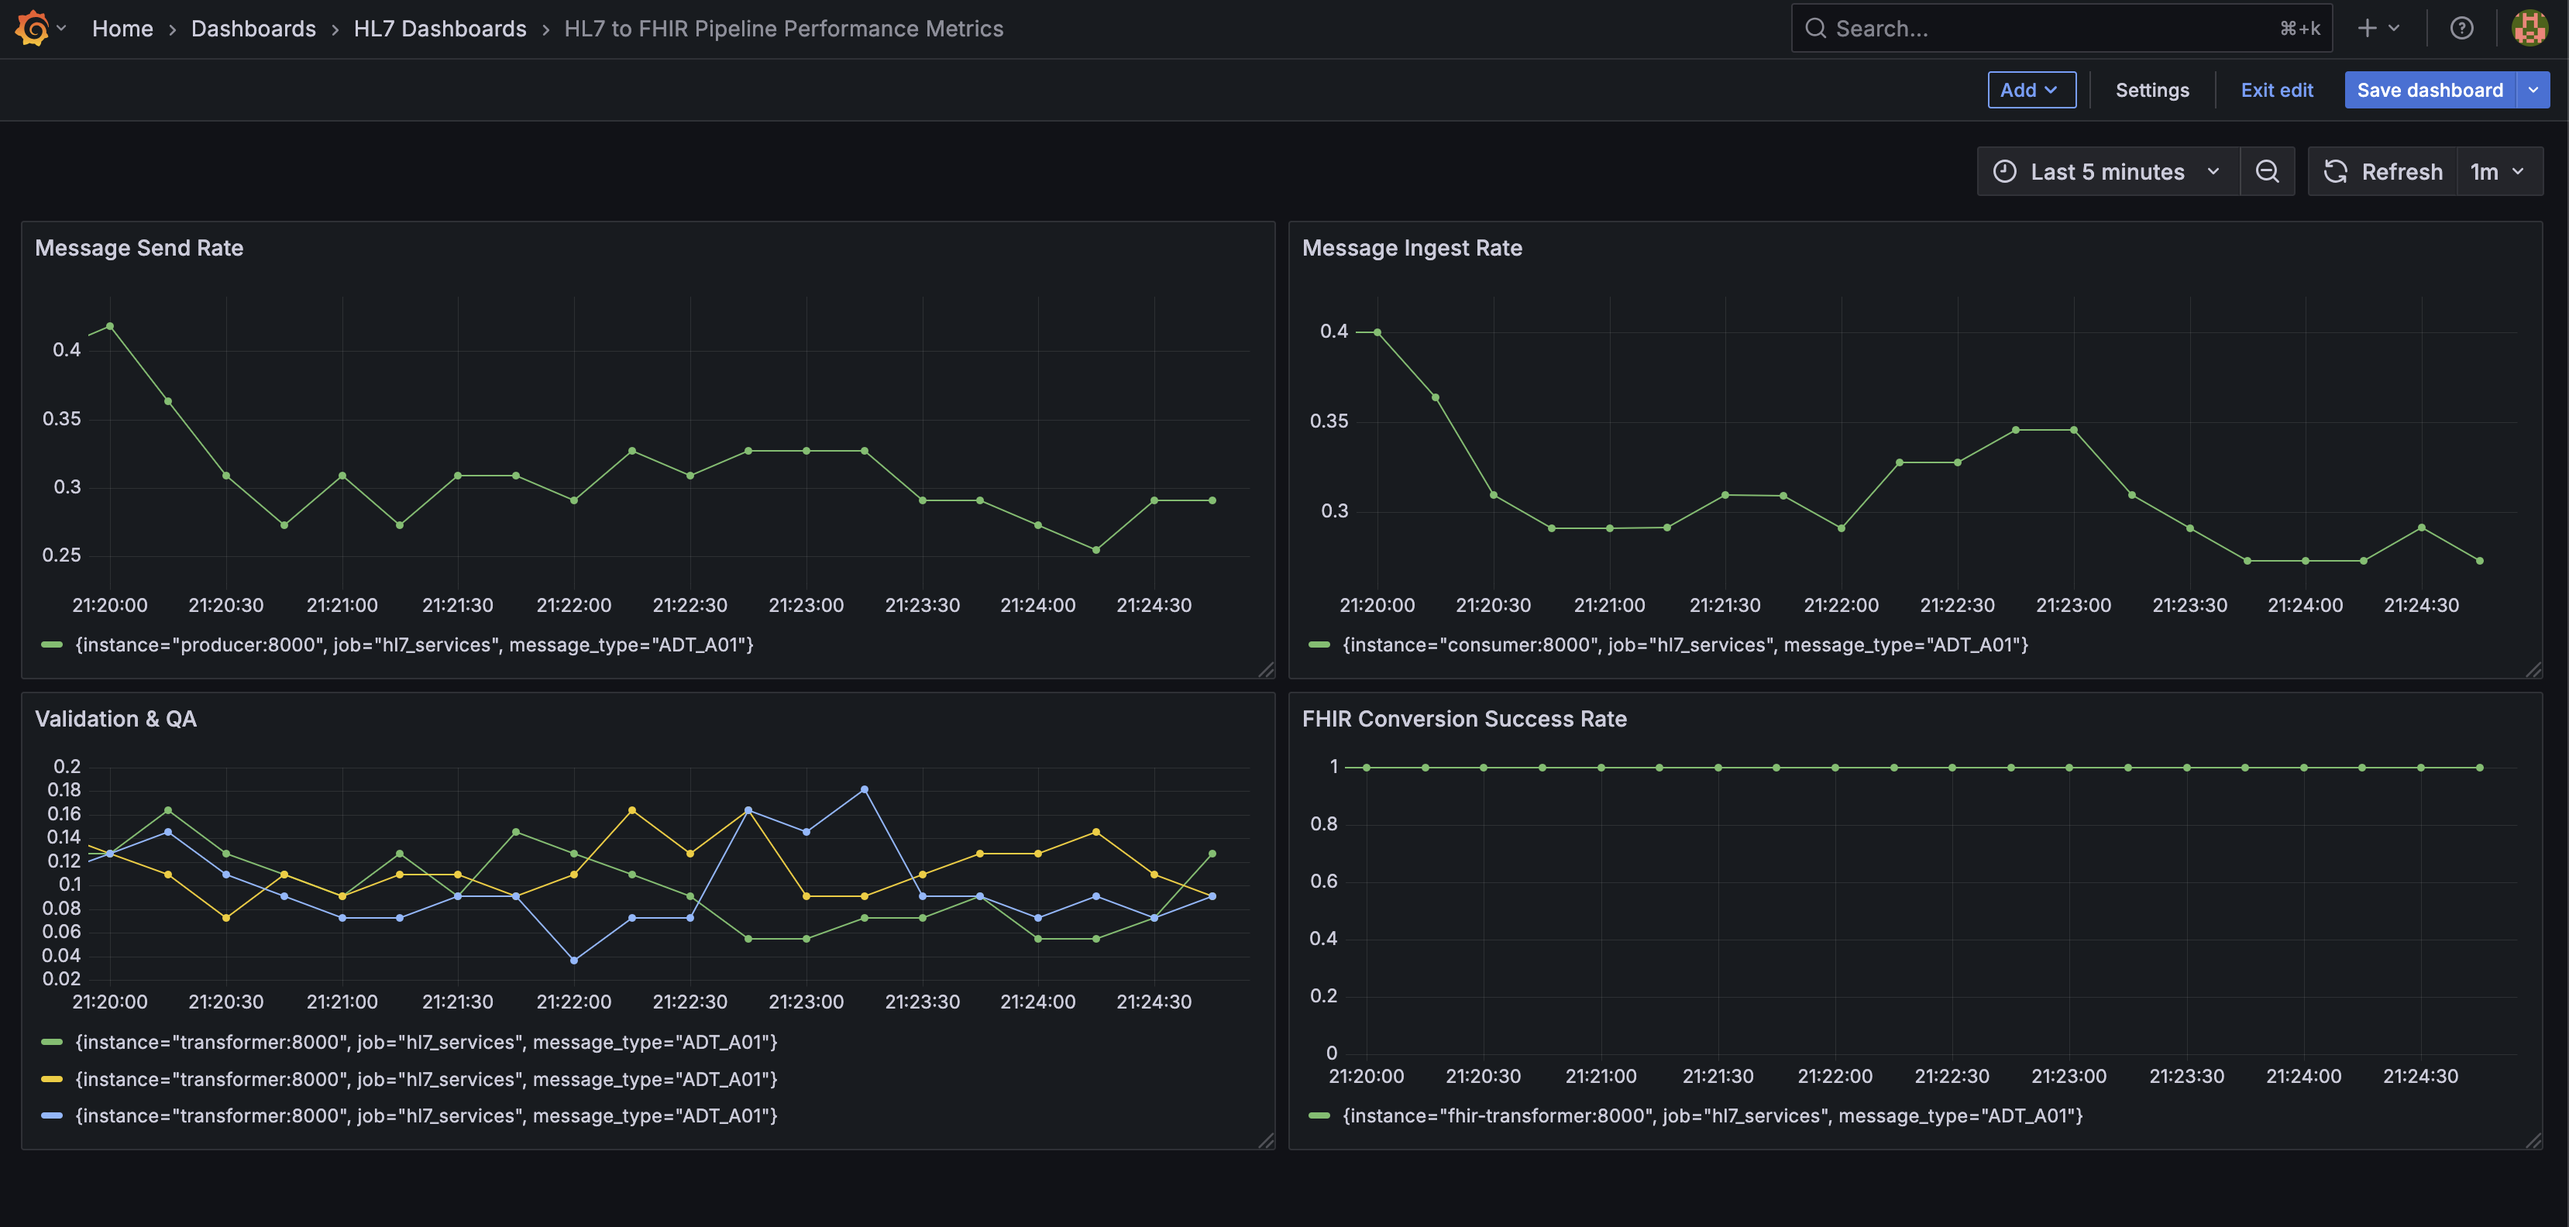
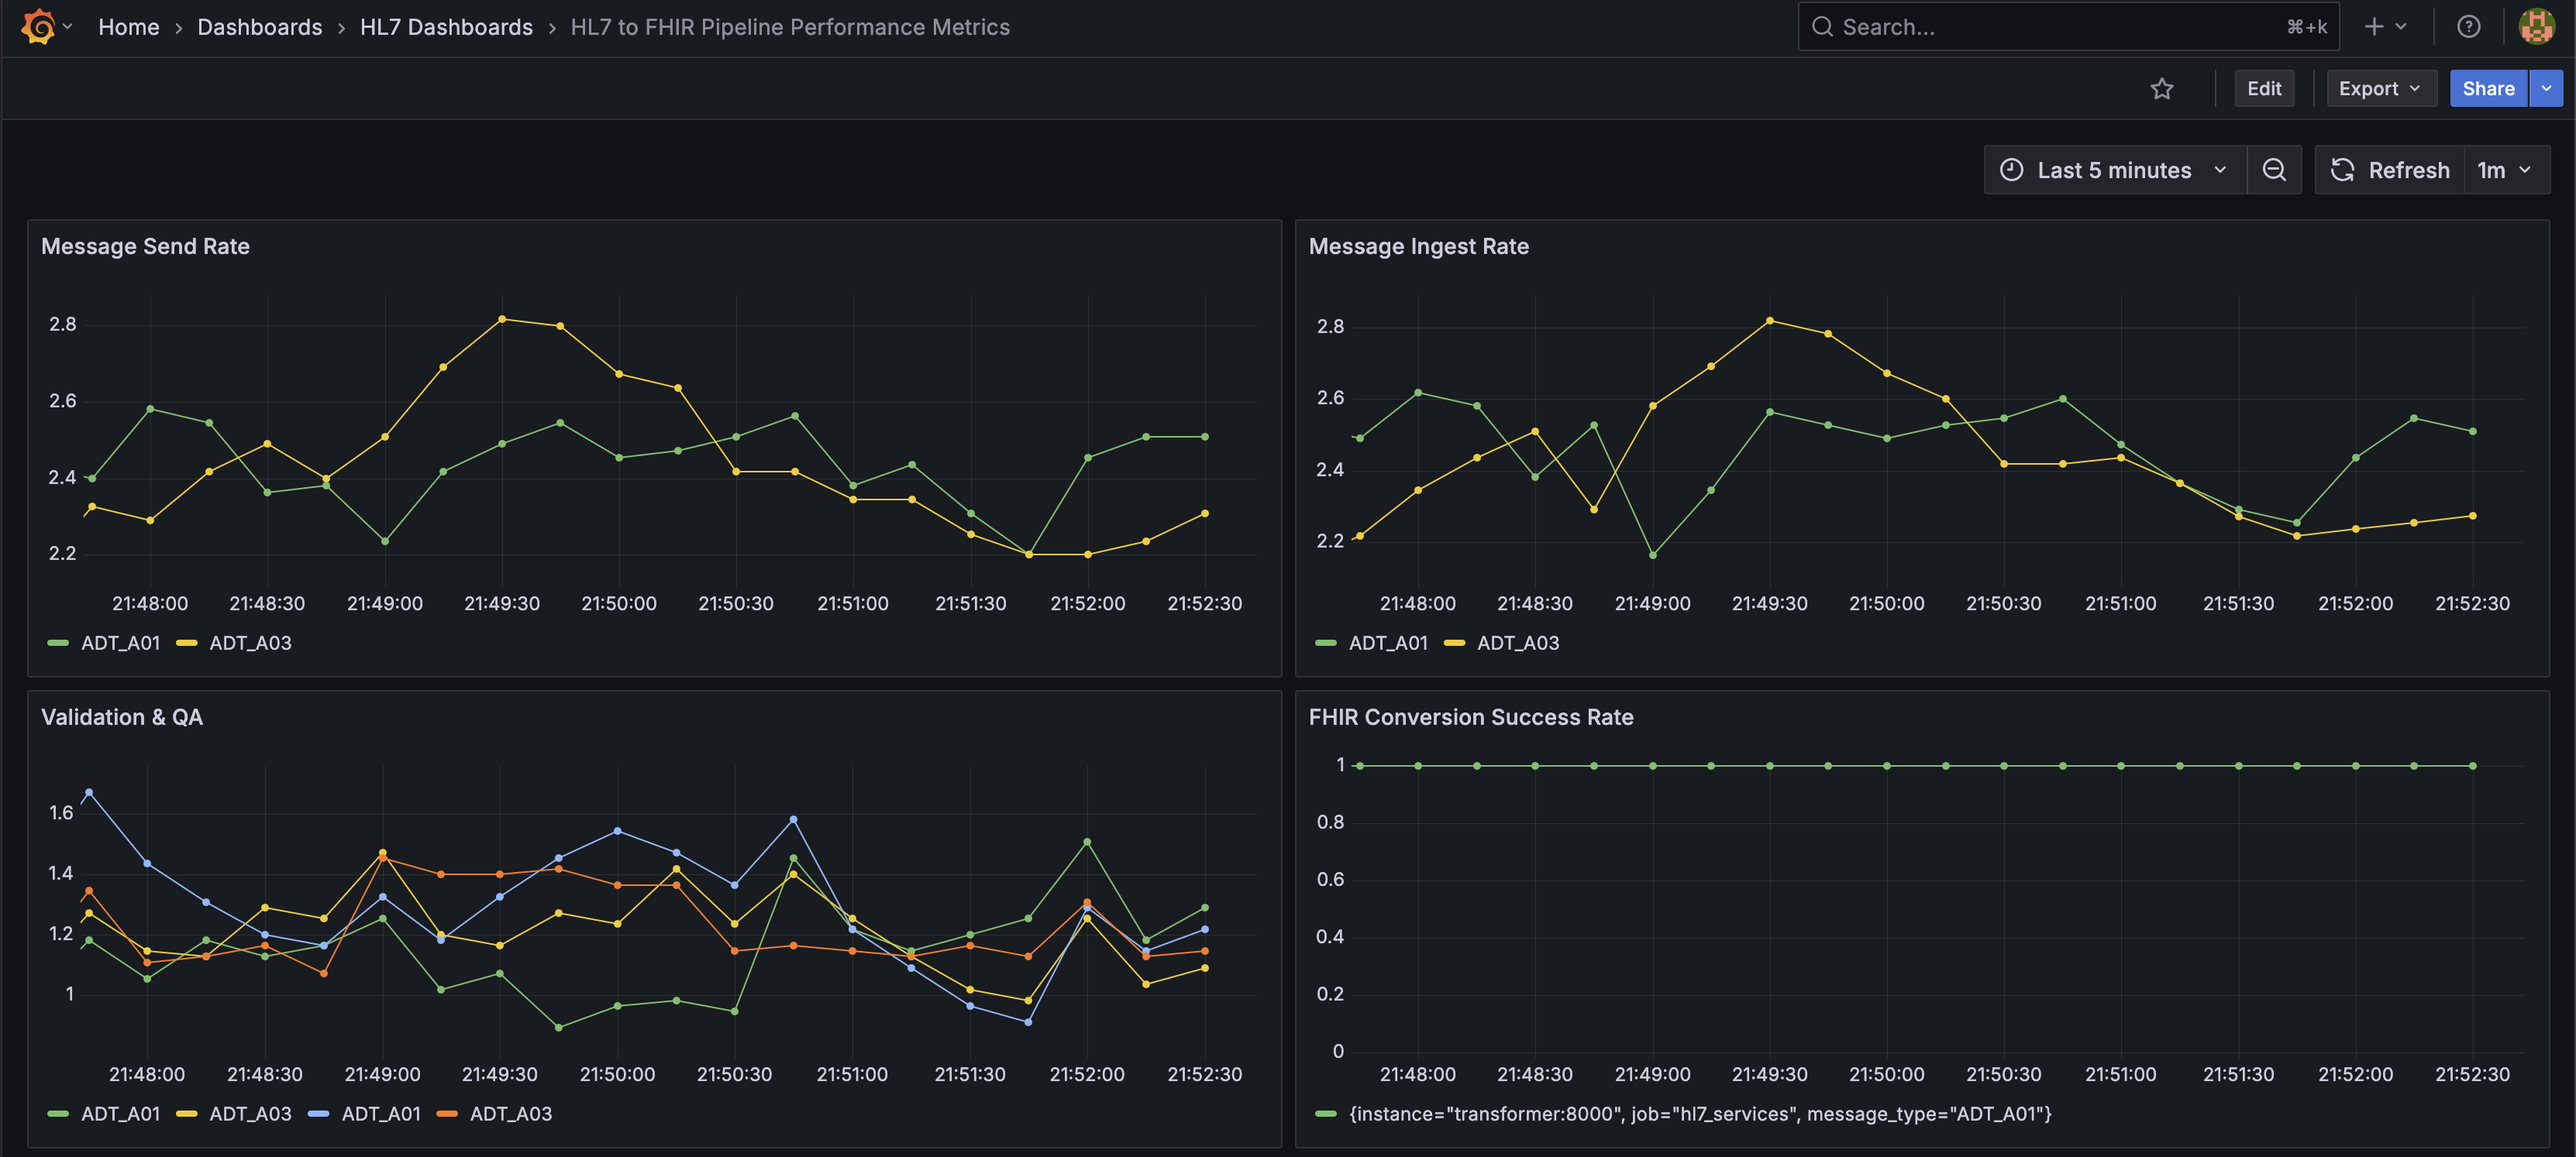
updates README

diff --git a/README.md b/README.md
@@ -23,7 +23,17 @@ The `producer` generates `ADT_A01` and `ADT_A03` messages dynamically by making 
 
 The `faker` library is used to generate random values for names, addresses, SSNs, UUIDs, phone numbers, and birth dates. Additionally, a decorator called `with_error_rate` is used on each value generator to randomly introduce missing values. The error rate is adjustable for each value-generating function.
 
-The `ADT_A01` and `ADT_A03` schemas were defined with the help of definitions provided by [Caristix](https://hl7-definition.caristix.com/v2/HL7v2.5/Segments). 
+The `ADT_A01` and `ADT_A03` schemas were defined with the help of definitions provided by [Caristix](https://hl7-definition.caristix.com/v2/HL7v2.5/Segments).
+
+### Consumer
+
+The `consumer` service is responsible for reading messages from Kafka and sending acknowledgement messages (i.e. `MSH-9.1 = ACK`) back to Kafka. On ingest, attempts are made to extract the `MSH` segment from the message both via `hl7apy` and custom logic. If that is successful, attempts are made to further extract the `MSH-1`, `MSH-9`, and `MSH-10` fields. If any of those attempts fail, either getting the `MSH` segment or the desired fields, the message is written to the Dead Letter Queue (i.e. `DLQ` topic) and an acknowledgement with `acknowledgement_code=AE` is written to the `ACKS` topic. If all attempts are successful, the message is written to the `bronze` bucket and an acknowledgement with `acknowledgement_code=AA` is sent to the `ACKS` topic.
+
+### Broker
+
+The `broker` service is a Kafka "cluster" consisting of a sinkgle broker. The topics include `HL7`, `DLQ`, and `ACKS`. The `HL7` topic is the main topic of interest, used by both the `producer` and `consumer` services, and is the topic where all HL7 messages are published to and consumed from. The `DLQ` topic is the Dead Letter Queue and is used to store messages that fail parsing, validation, or data quality checks and is intended to represent the batch of messages that would require manual review in a real-world environment. The `ACKS` topic is used for general acknowledgement messages (i.e. `MSH-9.1 == ACK`) and is intended to represent the messages that an integration engine would send back to the provider to acknowledge receipt of an HL7 message. These two topics, `DLQ` and `ACKS`, are only used by the `consumer` service.
+
+> NOTE: A production-level integration engine would have more brokers in the cluster, and would set the replication factor to a value higher than one. Additionally, the Kafka producers only wait for acknowledgement from the "Leader" partition (i.e. "acks=1"), but in production with a higher replication factor, this should be changed to `acks=-1` so that acknowledgement from all "Leader" and "Follower" partitions is required before moving on.
 
 ### Validator
 
@@ -60,18 +70,17 @@ Running this pipeline locally requires Docker. If you have Docker installed, fol
 
 If this were a production environment, there are a few things that could/should be added to improve this pipeline, including:
 
-- ~~Logging~~ (implemented by [8480be2e](https://github.com/bryanbritten/hl7-integration/commit/8480be2e0b959be5378f9510b2da116ef040fd96))
 - Testing
-- Message queues
-- Kubernetes (for scaling generation and consumption services based on need)
-- Extended message format handling (~~`ADT_03`~~, `ORU_R01`, etc)
+- Kubernetes (for scaling producer and consumer services based on need)
+- Add support for `ORU_R01` messages
 - Improved data quality checks
-- Business logic checks
-- More complex `ADT_A01` messages (repeated segments, z-segments, erroneous segments, etc.)
+- More complex messages (repeated segments, z-segments, erroneous segments, etc.)
 - Validation and quality quecks on the FHIR data
-- Business-centric metrics
-- Grafana dashboard defined as code
 - Alerts and warnings defined
+- ~~Logging~~ (implemented as of [8480be2e](https://github.com/bryanbritten/hl7-integration/commit/8480be2e0b959be5378f9510b2da116ef040fd96))
+- ~~Grafana dashboard defined as code~~ (implemented as of [59024efe](https://github.com/bryanbritten/hl7-integration/commit/59024efec96922117e9304bee9b7681f30658c94))
+- ~~Message queues~~ (implemented as of [81af8b1d](https://github.com/bryanbritten/hl7-integration/commit/81af8b1d62f42e6b69dc311272de68b2bdfbe230))
+- ~~Add support for `ADT_A03` messages~~ (implemented as of [05dfe236](https://github.com/bryanbritten/hl7-integration/commit/05dfe236d967805fdb7199d2e18c0903c5f9d37e))
 
 
 ![image of a Grafana dashboard with the four metrics defined above](common/img/grafana_dashboard.png)
